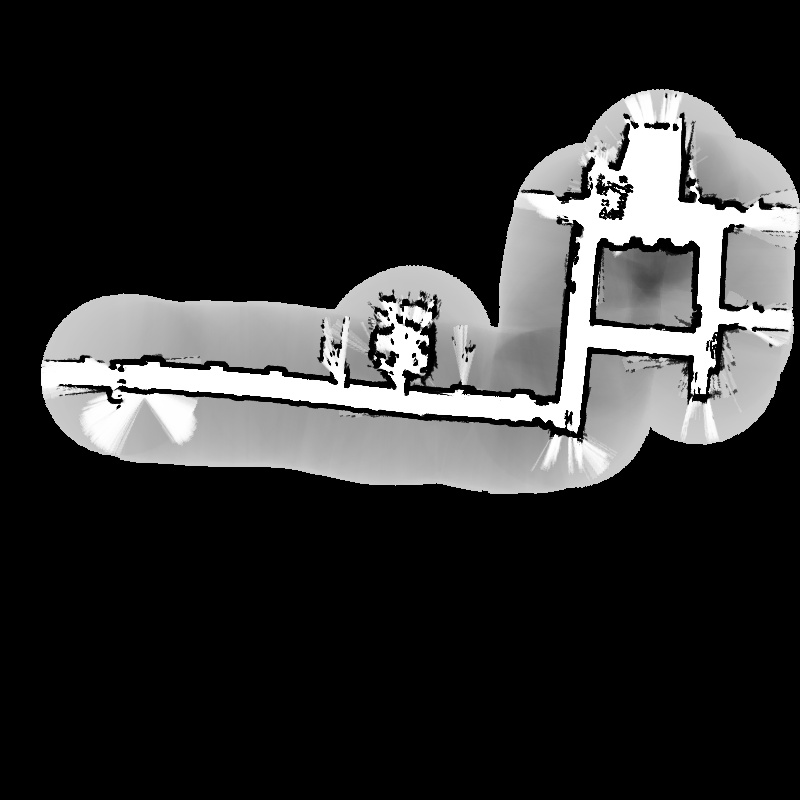
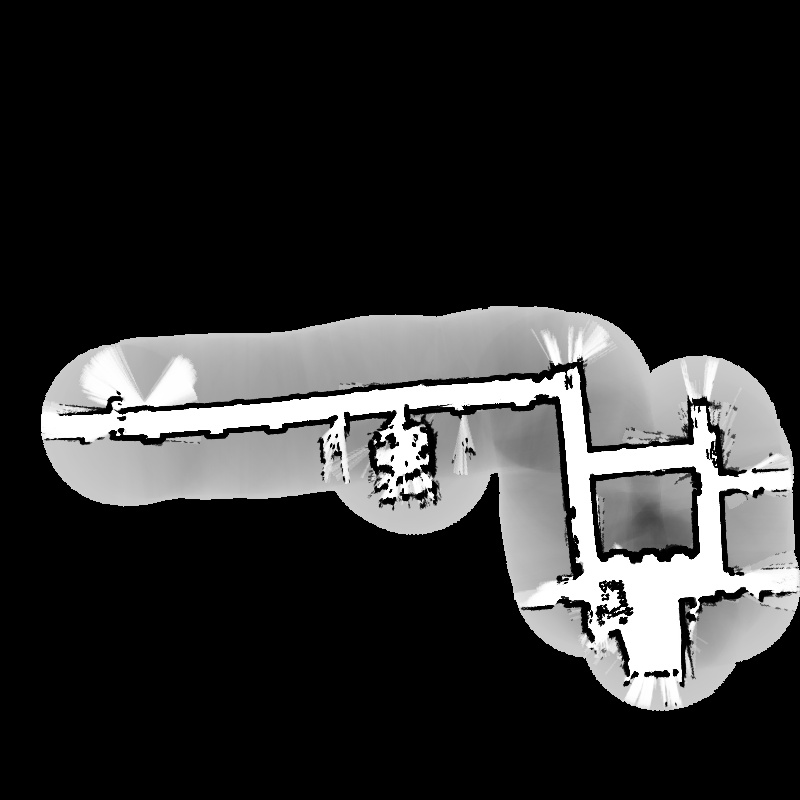
add motion model (update fxn). Changed map reading from file in y-axis

diff --git a/particleFilter.py b/particleFilter.py
@@ -7,6 +7,19 @@
 '''
 
 import numpy as np
+from numpy.linalg import inv
+
+def state_to_transform_2d(x):
+    ct = np.cos(x[2]);
+    st = np.sin(x[2]);
+    return np.array([
+            [ct, -st, x[0]],
+            [st, ct, x[1]],
+            [0., 0., 1.]])
+
+def transform_to_state_2d(H):
+    return np.array([H[0,2], H[1,2], np.math.atan2(H[1,0], H[0,0])])
+
 
 class Particle(object):
     ''' Particle in the particle filter '''
@@ -34,6 +47,7 @@ class ParticleFilter():
     ''' The particle filter '''
     def __init__(self):
         self.X = []  # set of particles
+        self.prevPos = None
         return
 
     def initParticles(self, map):
@@ -50,9 +64,37 @@ class ParticleFilter():
 
         return            
 
-    def update(self, posPrev, odom, odomPrev):
-        ''' Returns updated state according to motion model '''
-        return
+    # private function
+    def _update(self, prevPos_W, prevPos_Odom, pos_Odom):
+        ''' Updates state of particles according to motion model 
+        @param prevPos_W : 3-tuple (x, y, theta). Previous position of robot in
+                           world frame
+        @param pos_Odom : 3-tuple (x, y, theta). New position of robot in odom 
+                          frame
+        @param prevPos_Odom : 3-tuple (x, y, theta). New position of robot in 
+                              odom frame '''
+
+        # Rnew : frame attached on robot at new position
+        # Rprev : frame attached on robot at old position
+        # odom : odometery frame
+
+        # Transforms
+        T_Rnew2odom = state_to_transform_2d(pos_Odom)
+
+        T_Rprev2odom = state_to_transform_2d(prevPos_Odom)
+
+        T_Rnew2Rprev = np.dot(inv(T_Rprev2odom), T_Rnew2odom)
+        
+        T_Rnew2W = np.dot(state_to_transform_2d(prevPos_W), T_Rnew2Rprev)
+        
+        pos_W = transform_to_state_2d(T_Rnew2W)
+
+        # Maybe we can add some noise
+        pos_W[0] = pos_W[0] + np.random.normal(0, 1)
+        pos_W[1] = pos_W[1] + np.random.normal(0, 1)
+        pos_W[2] = pos_W[2] + np.random.normal(0, 0.01)
+
+        return pos_W
 
     def step(self, X_prev, u_t, z_t):
         '''
@@ -69,7 +111,7 @@ class ParticleFilter():
         '''
         For each particle 
             update the particle using transition model (motion model)
-            specify weight of the particle
+            specify weight of the particle using sensor model
             add this particle to new set. '''
         #for m in range(M):
 
@@ -80,3 +122,18 @@ class ParticleFilter():
         its importance weight. '''
         return None
 
+
+def testParticleFilter():
+    print 'Testing the ParticleFilter class ...'
+
+    # basic tests
+    filter = ParticleFilter()
+
+    # test for update function
+    pos = filter._update((5.0, 6.0, 0.0), (1, 2, 0.0), (2, 2, 0.0))
+    print pos # this should print something close to (6, 6, 0)
+
+    return
+
+if __name__ == '__main__':
+    testParticleFilter()

diff --git a/localize.py b/localize.py
@@ -19,9 +19,6 @@ from visualization import Visualization
 from map import Map
 from particleFilter import ParticleFilter
 
-
-
-
 if __name__ == '__main__':
     
     ''' Read map '''
@@ -49,6 +46,9 @@ if __name__ == '__main__':
         # read line only with laser data. Ignore others.
         if line[0] == 'L':
             z = np.zeros(180)
+            x_robot, y_robot, theta_robot = float(words[1]), float(words[2]), float(words[3])
+            x_laser, y_laser, theta_laser = float(words[4]), float(words[5]), float(words[6])
             words = line.split()
             for j in range(180):
-                z[j] = float(words[j+1])
+                z[j] = float(words[j + 7])
+            t = float(words[187])

diff --git a/map.py b/map.py
@@ -38,7 +38,7 @@ class Map():
             line = f.readline()
             words = line.split()
             for x in range(800):
-                self.grid[x][y] = float(words[799 - x])
+                self.grid[x][y] = float(words[x])
 
                 # cells for which value not known, make them occupied
                 if abs(self.grid[x][y] + 1) < 0.001:
